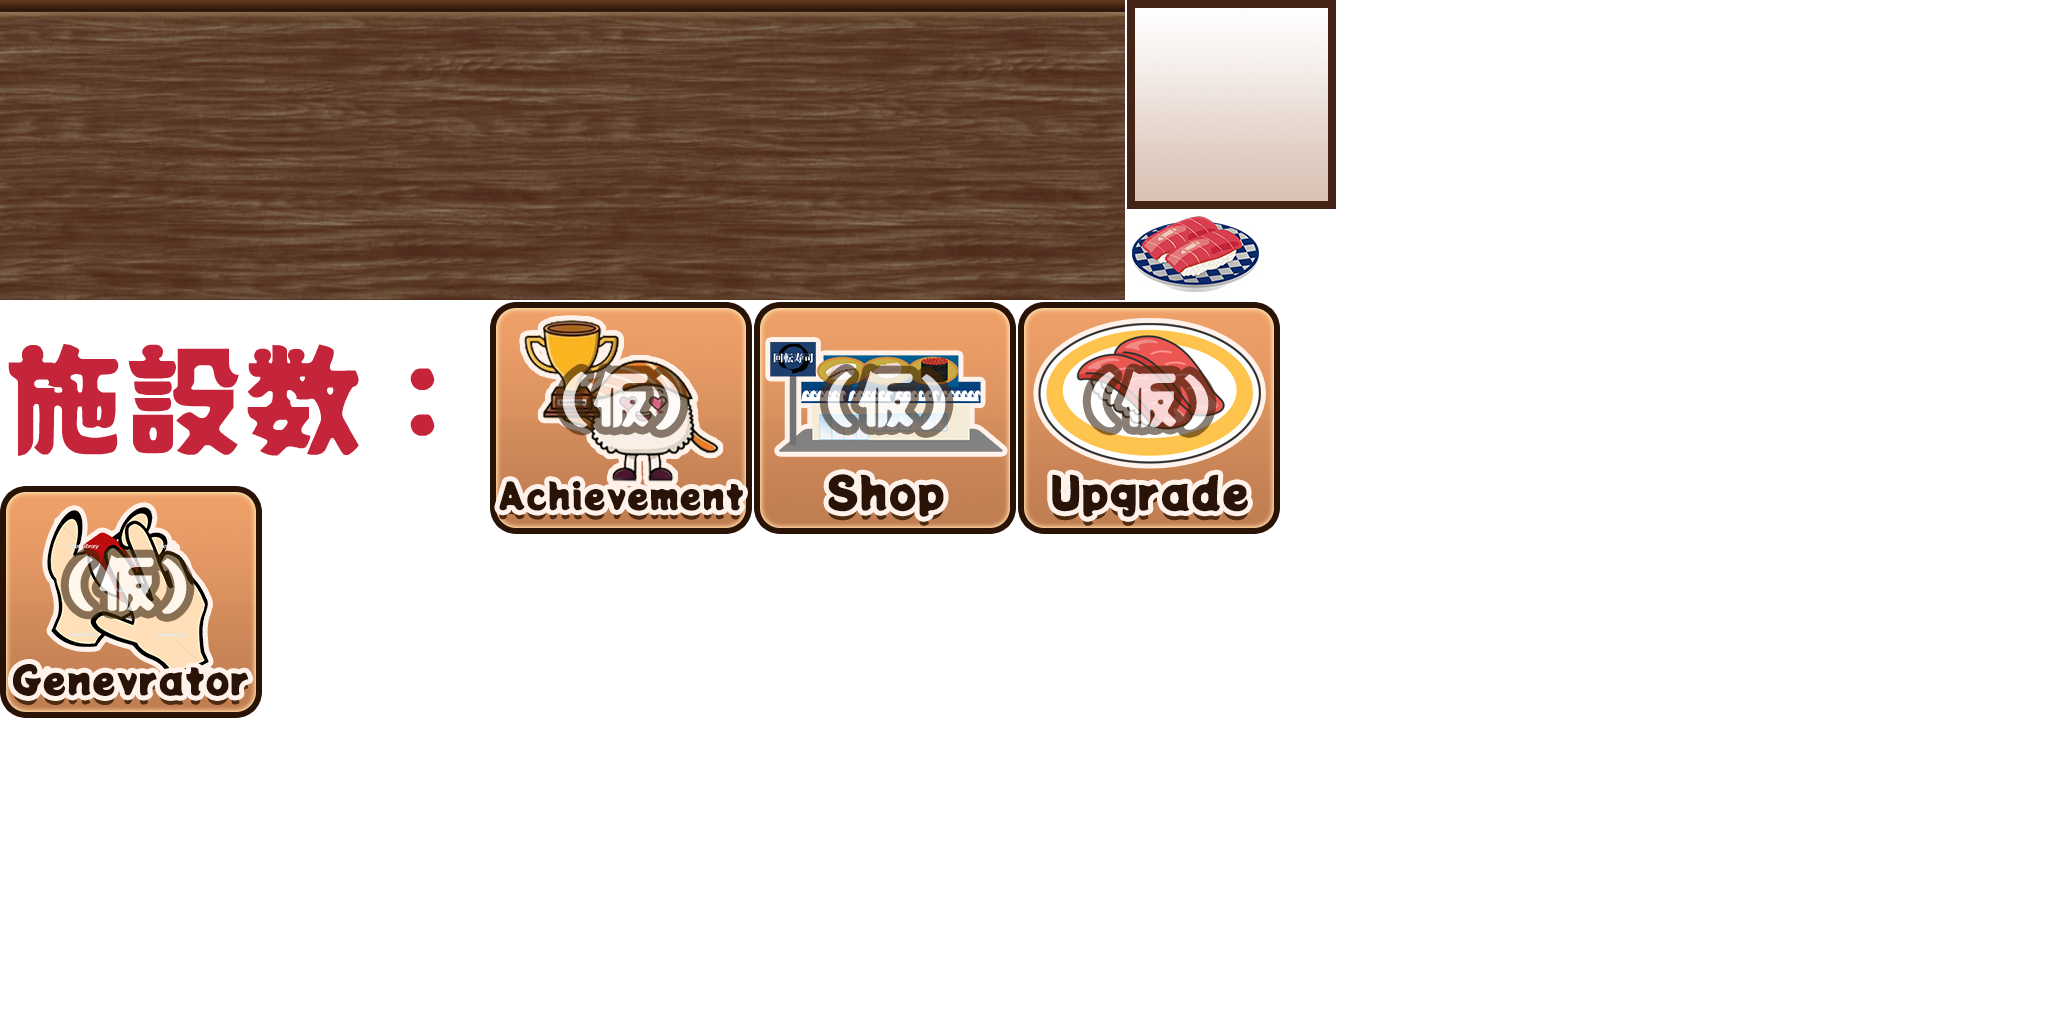
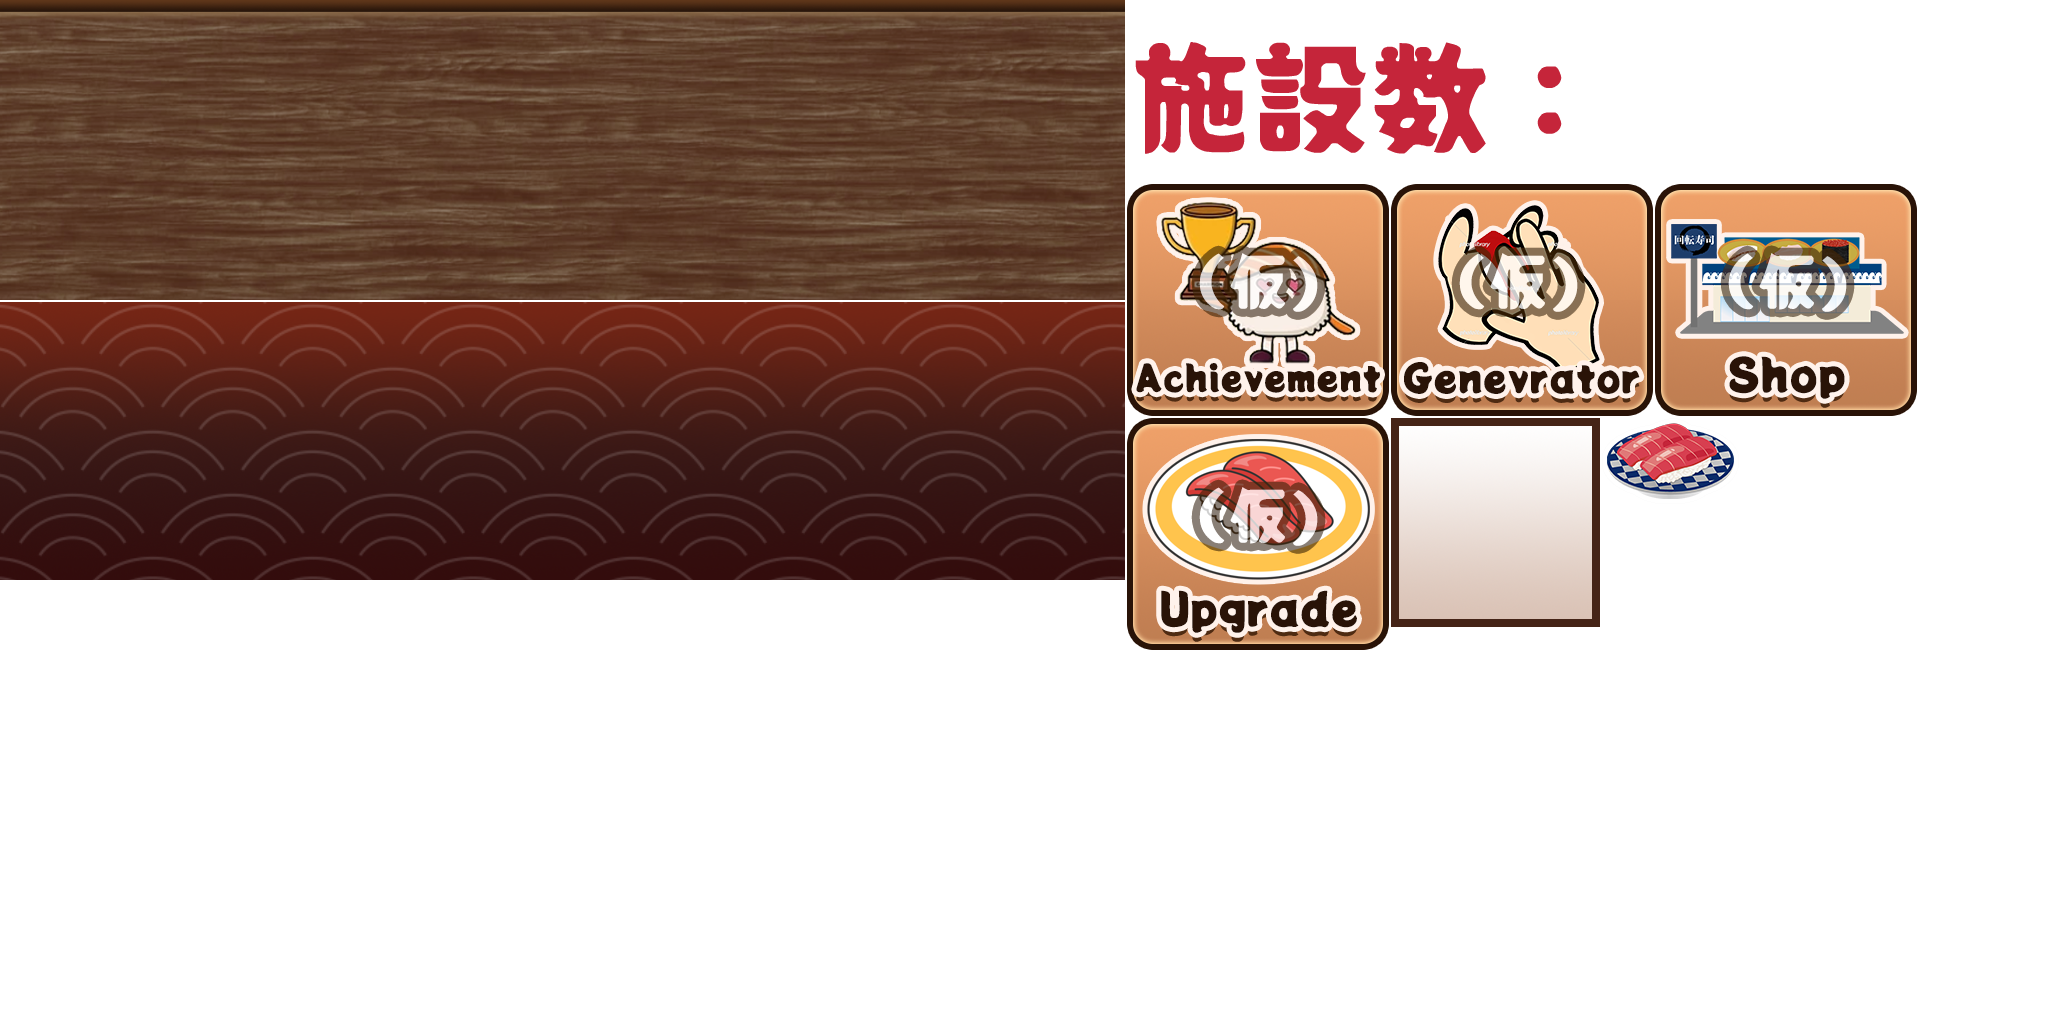
a

Changed region(s): [[0.0, 0.0, 0.9375, 0.7188]]

diff --git a/index.js b/index.js
@@ -3,7 +3,7 @@
 var p; // shortcut to reference prototypes
 var lib={};var ss={};var img={};
 lib.ssMetadata = [
-		{name:"index_atlas_1", frames: [[0,302,488,182],[490,302,262,232],[0,0,1125,300],[0,486,262,232],[1127,0,209,209],[754,302,262,232],[1127,211,137,86],[1018,302,262,232]]},
+		{name:"index_atlas_1", frames: [[1617,0,417,182],[1127,0,488,182],[1127,184,262,232],[0,0,1125,300],[1391,184,262,232],[0,302,1125,278],[1391,418,209,209],[1655,184,262,232],[1602,418,137,86],[1127,418,262,232]]},
 		{name:"index_atlas_2", frames: [[0,1589,1123,305],[0,0,1125,985],[0,987,1000,600]]},
 		{name:"index_atlas_3", frames: [[0,0,1044,1145]]}
 ];
@@ -29,16 +29,23 @@ lib.ssMetadata = [
 
 
 
-(lib.CachedBmp_1 = function() {
+(lib.CachedBmp_2 = function() {
 	this.initialize(ss["index_atlas_1"]);
 	this.gotoAndStop(0);
 }).prototype = p = new cjs.Sprite();
 
 
 
-(lib.achievementButton = function() {
+(lib.CachedBmp_1 = function() {
 	this.initialize(ss["index_atlas_1"]);
 	this.gotoAndStop(1);
+}).prototype = p = new cjs.Sprite();
+
+
+
+(lib.achievementButton = function() {
+	this.initialize(ss["index_atlas_1"]);
+	this.gotoAndStop(2);
 }).prototype = p = new cjs.Sprite();
 
 
@@ -65,21 +72,28 @@ p.nominalBounds = new cjs.Rectangle(0,0,2436,2436);
 
 (lib.footer = function() {
 	this.initialize(ss["index_atlas_1"]);
-	this.gotoAndStop(2);
+	this.gotoAndStop(3);
 }).prototype = p = new cjs.Sprite();
 
 
 
 (lib.generatorButton = function() {
 	this.initialize(ss["index_atlas_1"]);
-	this.gotoAndStop(3);
+	this.gotoAndStop(4);
+}).prototype = p = new cjs.Sprite();
+
+
+
+(lib.header = function() {
+	this.initialize(ss["index_atlas_1"]);
+	this.gotoAndStop(5);
 }).prototype = p = new cjs.Sprite();
 
 
 
 (lib.iconFrame = function() {
 	this.initialize(ss["index_atlas_1"]);
-	this.gotoAndStop(4);
+	this.gotoAndStop(6);
 }).prototype = p = new cjs.Sprite();
 
 
@@ -93,7 +107,7 @@ p.nominalBounds = new cjs.Rectangle(0,0,2436,2436);
 
 (lib.shopButton = function() {
 	this.initialize(ss["index_atlas_1"]);
-	this.gotoAndStop(5);
+	this.gotoAndStop(7);
 }).prototype = p = new cjs.Sprite();
 
 
@@ -107,14 +121,14 @@ p.nominalBounds = new cjs.Rectangle(0,0,2436,2436);
 
 (lib.sushiIcon = function() {
 	this.initialize(ss["index_atlas_1"]);
-	this.gotoAndStop(6);
+	this.gotoAndStop(8);
 }).prototype = p = new cjs.Sprite();
 
 
 
 (lib.upgradeButton = function() {
 	this.initialize(ss["index_atlas_1"]);
-	this.gotoAndStop(7);
+	this.gotoAndStop(9);
 }).prototype = p = new cjs.Sprite();
 // helper functions:
 
@@ -214,6 +228,49 @@ if (reversed == null) { reversed = false; }
 	this._renderFirstFrame();
 
 }).prototype = getMCSymbolPrototype(lib.MaskMC, new cjs.Rectangle(0,0,100,100), null);
+
+
+(lib.HeaderMC = function(mode,startPosition,loop,reversed) {
+if (loop == null) { loop = true; }
+if (reversed == null) { reversed = false; }
+	var props = new Object();
+	props.mode = mode;
+	props.startPosition = startPosition;
+	props.labels = {};
+	props.loop = loop;
+	props.reversed = reversed;
+	cjs.MovieClip.apply(this,[props]);
+
+	// Text
+	this.instance = new lib.CachedBmp_2();
+	this.instance.setTransform(778.9,49.55,0.5,0.5);
+
+	this.Sps = new cjs.Text("per Second : 123,111 pieces", "50px 'Potta One'", "#DC962D");
+	this.Sps.name = "Sps";
+	this.Sps.textAlign = "center";
+	this.Sps.lineHeight = 74;
+	this.Sps.lineWidth = 1120;
+	this.Sps.parent = this;
+	this.Sps.setTransform(561.95,162);
+
+	this.Sushi = new cjs.Text("123.221", "100px 'Potta One'", "#FFFFFF");
+	this.Sushi.name = "Sushi";
+	this.Sushi.textAlign = "right";
+	this.Sushi.lineHeight = 147;
+	this.Sushi.lineWidth = 712;
+	this.Sushi.parent = this;
+	this.Sushi.setTransform(756.2,33.55);
+
+	this.timeline.addTween(cjs.Tween.get({}).to({state:[{t:this.Sushi},{t:this.Sps},{t:this.instance}]}).wait(1));
+
+	// BG
+	this.instance_1 = new lib.header();
+
+	this.timeline.addTween(cjs.Tween.get(this.instance_1).wait(1));
+
+	this._renderFirstFrame();
+
+}).prototype = getMCSymbolPrototype(lib.HeaderMC, new cjs.Rectangle(0,0,1125,278), null);
 
 
 (lib.ButtonMC = function(mode,startPosition,loop,reversed) {
@@ -1940,11 +1997,14 @@ if (reversed == null) { reversed = false; }
 	this.timeline.addTween(cjs.Tween.get({}).to({state:[{t:this.log1},{t:this.text}]}).wait(1));
 
 	// Menu
+	this.HeaderMC = new lib.HeaderMC();
+	this.HeaderMC.name = "HeaderMC";
+
 	this.FooterMC = new lib.FooterMC();
 	this.FooterMC.name = "FooterMC";
 	this.FooterMC.setTransform(0,2436,1,1,0,0,0,0,300);
 
-	this.timeline.addTween(cjs.Tween.get(this.FooterMC).wait(1));
+	this.timeline.addTween(cjs.Tween.get({}).to({state:[{t:this.FooterMC},{t:this.HeaderMC}]}).wait(1));
 
 	// Achievement
 	this.AchievementPanelMC = new lib.AchievementPanelMC();
